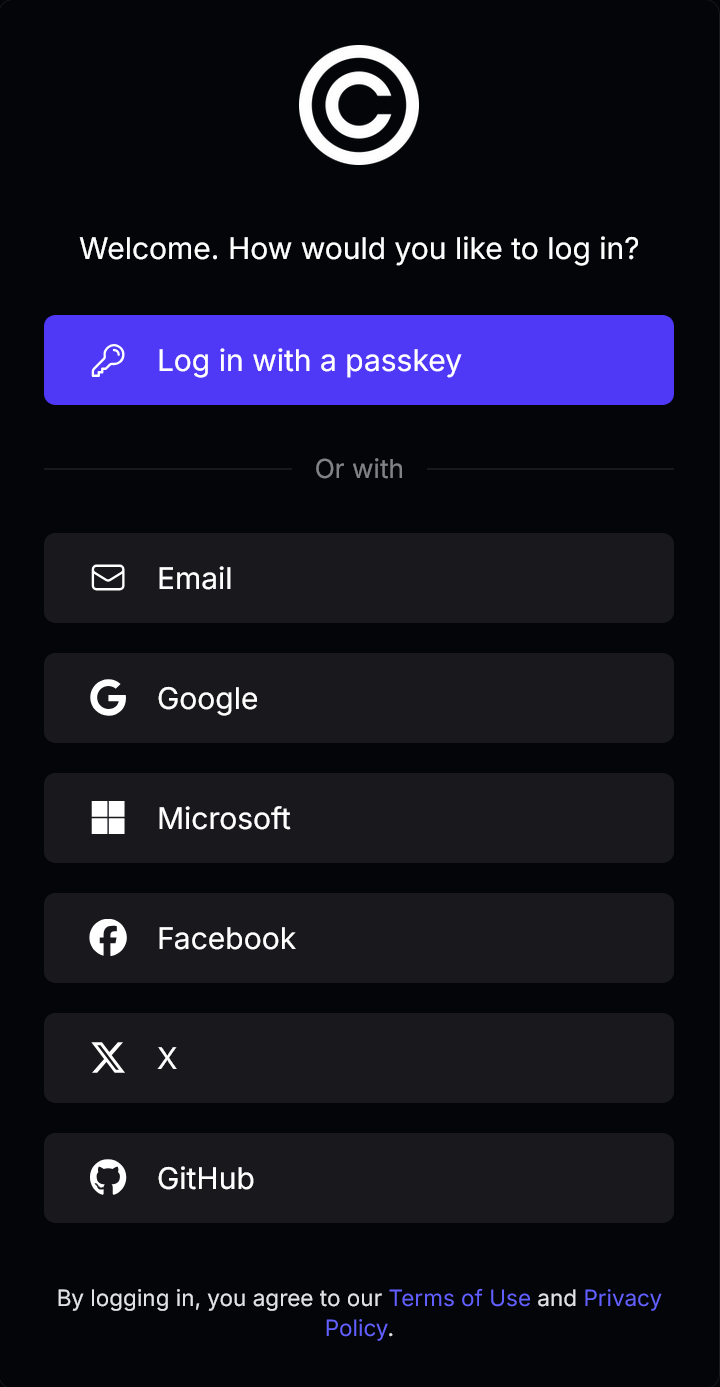
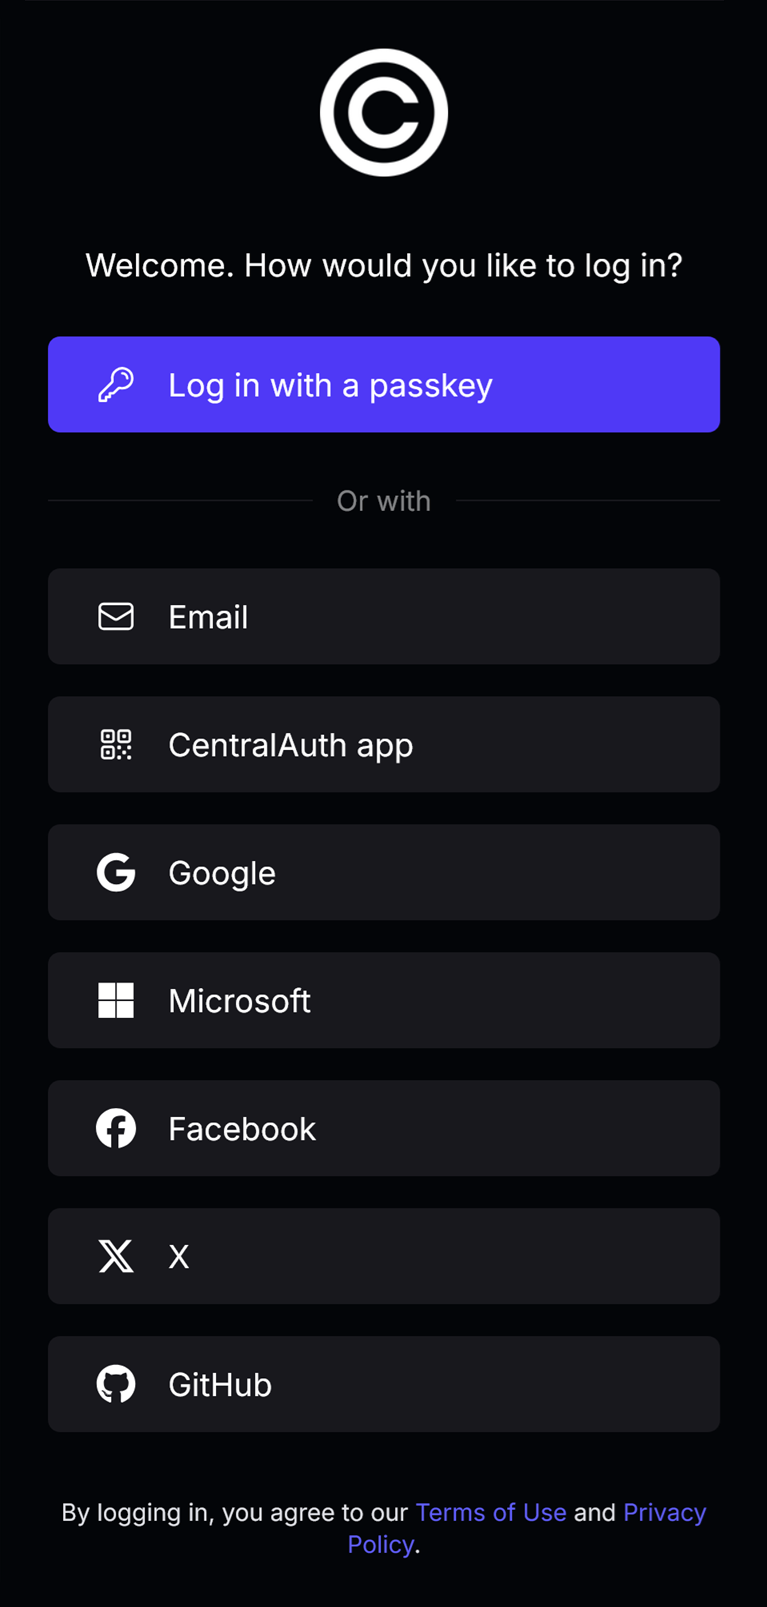
Added docs for CentralAuth app

diff --git a/docs/developer/translations.md b/docs/developer/translations.md
@@ -59,6 +59,8 @@ You can set the following translations:
 | `loginPageEmailError`                 | The error message for a failed email login.                                                                                                                                            | Please enter a valid email address.                                                                                                                                                                                                                                 |
 | `loginPageAppIntro`                   | The introductory text for login attempts via the CentralAuth app.                                                                                                                      | Open the CentralAuth app on your device and select your account. Click on the 'log in with this account' button and enter the code you see on your screen:                                                                                                          |
 | `loginPageAppQRlabel`                 | The label for the QR code shown for login attempts via the CentralAuth app.                                                                                                            | Scan this QR code in the CentralAuth app:                                                                                                                                                                                                                           |
+| `loginPageAppThisDeviceText`          | The label for the button to use the CentralAuth app on this device.                                                                                                                    | Log in with this device                                                                                                                                                                                                                                             |
+| `loginPageAppOtherDeviceText`         | The label for the button to use the CentralAuth app on another device.                                                                                                                 | Log in with another device                                                                                                                                                                                                                                          |
 | `loginPageCaptcha`                    | The label for the Captcha checkbox.                                                                                                                                                    | I am a human                                                                                                                                                                                                                                                        |
 | `loginPageCaptchaChallengeText`       | The text for the Captcha number challenge.                                                                                                                                             | Please click the numbers from lowest to highest.                                                                                                                                                                                                                    |
 | `loginPageCaptchaPuzzleText`          | The text for the Captcha puzzle challenge.                                                                                                                                             | Please click the only open circle in the image.                                                                                                                                                                                                                     |

diff --git a/docs/developer/login/overview.md b/docs/developer/login/overview.md
@@ -11,6 +11,7 @@ This table lists the characteristics of each flow:
 |                                             | Default login flow | Direct authentication      | Embedded login flow        |
 | ------------------------------------------- | ------------------ | -------------------------- | -------------------------- |
 | **Supports all authentication methods**     | ✅                  | ❌                          | ✅¹                         |
+| **Compatible with the CentralAuth app**     | ✅                  | ❌                          | ✅                          |
 | **Compatible with all browsers**            | ✅                  | ✅                          | ❌                          |
 | **Suitable for web applications**           | ✅                  | ✅                          | ✅                          |
 | **Suitable for native apps**                | ✅                  | ❌                          | ❌                          |

diff --git a/docs/user/overview.md b/docs/user/overview.md
@@ -14,10 +14,16 @@ Modern, password-less authentication using your device's secure hardware. Suppor
 ## Email authentication
 Secure login via one-time codes sent to your verified email address. No password required.
 
+## CentralAuth app
+
+Use the native CentralAuth app for secure authentication in any application that uses CentralAuth. You can manage all your accounts in one place and use biometric authentication for added security, making this the easiest and most secure way to log in.
+
 ## OAuth providers
 Sign in using your existing accounts from trusted providers:
 - Google
 - Microsoft
+- Facebook
+- X
 - GitHub
 
 On the next pages, you will find detailed instructions on how to use each authentication method.

diff --git a/docs/user/login-methods/centralauth-app.md b/docs/user/login-methods/centralauth-app.md
@@ -1,0 +1,13 @@
+---
+sidebar_position: 3
+---
+
+# CentralAuth app
+
+You can use the native CentralAuth app for secure authentication in any application that uses CentralAuth. 
+
+## How it works
+
+<img src="/img/LoginScreen.png" alt="CentralAuth login screen" width="50%" height="50%" />
+
+- When you start the CentralAuth login flow, click on the `CentralAuth app` button.

diff --git a/docs/user/login-methods/microsoft.md b/docs/user/login-methods/microsoft.md
@@ -1,5 +1,5 @@
 ---
-sidebar_position: 4
+sidebar_position: 5
 ---
 
 # Microsoft Account

diff --git a/docs/user/login-methods/facebook.md b/docs/user/login-methods/facebook.md
@@ -1,5 +1,5 @@
 ---
-sidebar_position: 5
+sidebar_position: 6
 ---
 
 # Facebook Account

diff --git a/docs/user/login-methods/github.md b/docs/user/login-methods/github.md
@@ -1,5 +1,5 @@
 ---
-sidebar_position: 6
+sidebar_position: 8
 ---
 
 # GitHub Account

diff --git a/docs/user/login-methods/google.md b/docs/user/login-methods/google.md
@@ -1,5 +1,5 @@
 ---
-sidebar_position: 3
+sidebar_position: 4
 ---
 
 # Google Account

diff --git a/docs/user/login-methods/x.md b/docs/user/login-methods/x.md
@@ -1,5 +1,5 @@
 ---
-sidebar_position: 5
+sidebar_position: 7
 ---
 
 # X Account
